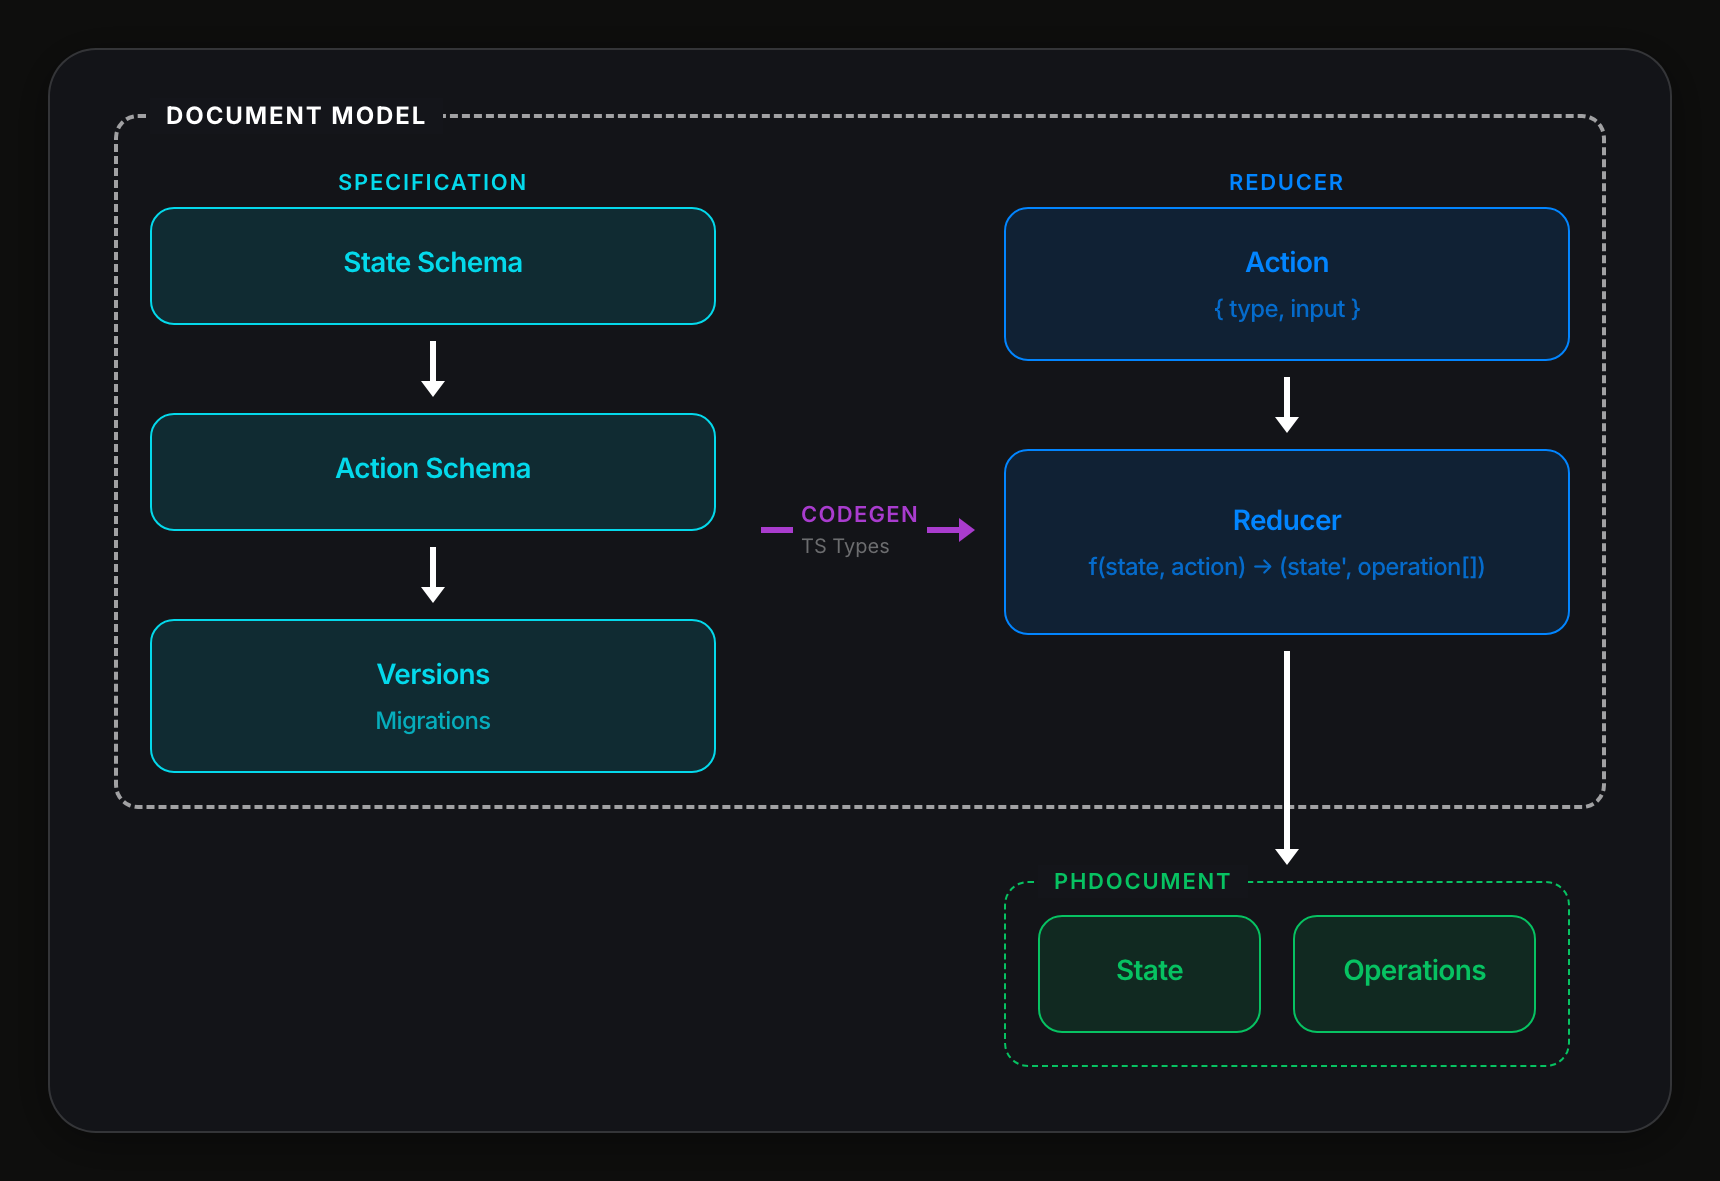
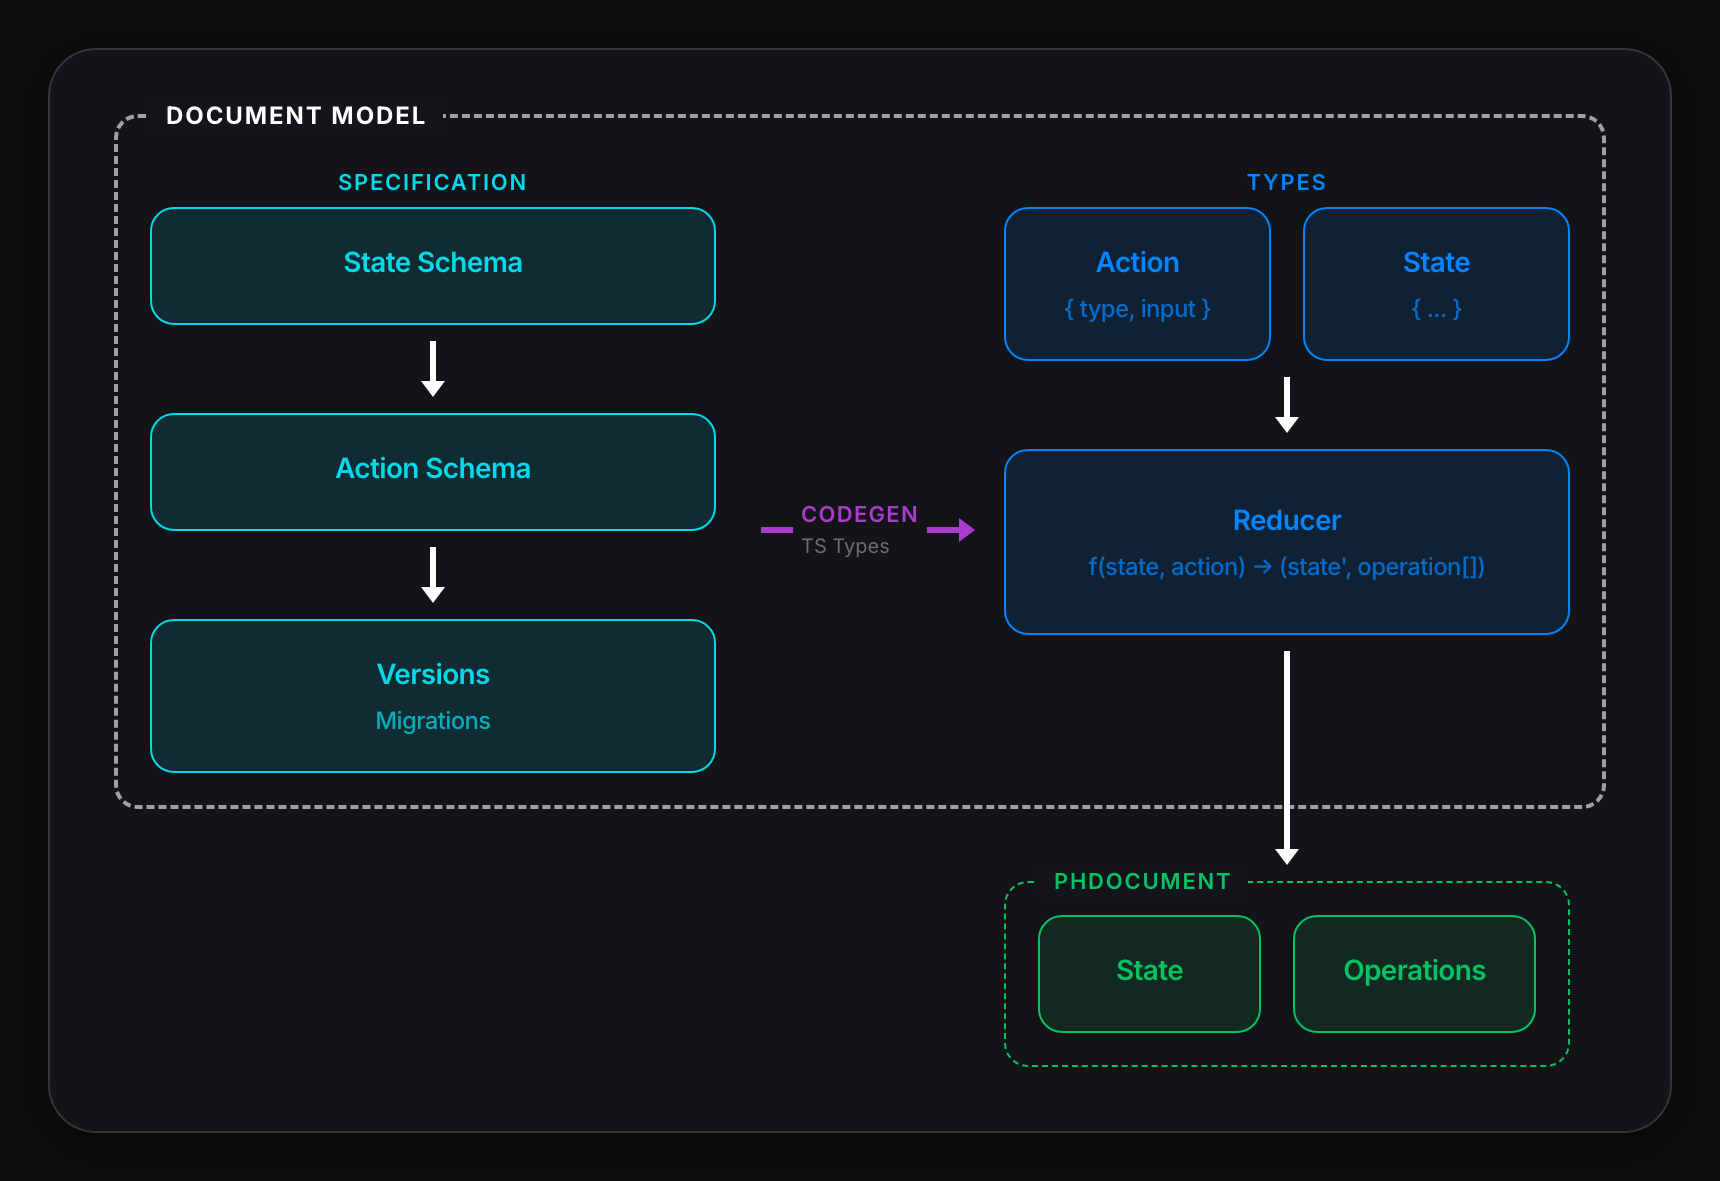
rebuild: document-model right side is Types, with State alongside Action

Changed region(s): [[0.6163, 0.1524, 0.8012, 0.3048], [0.8012, 0.2134, 0.8628, 0.2439]]

diff --git a/diagrams/pages/document-model-architecture.html b/diagrams/pages/document-model-architecture.html
@@ -229,6 +229,16 @@
       padding: 0 var(--space-sm);
     }
 
+    /* The two generated types, side by side */
+    .type-group {
+      display: grid;
+      grid-template-columns: 1fr 1fr;
+      gap: var(--space-md);
+    }
+    .type-group .box {
+      padding: var(--space-md) var(--space-sm);
+    }
+
     .output-group {
       display: grid;
       grid-template-columns: 1fr 1fr;
@@ -248,7 +258,7 @@
           <!-- Column Headers -->
           <div class="col-header spec">Specification</div>
           <div class="col-header codegen"></div>
-          <div class="col-header reducer">Reducer</div>
+          <div class="col-header reducer">Types</div>
 
           <!-- Left Column: Spec -->
           <div class="col-spec">
@@ -284,9 +294,15 @@
 
           <!-- Right Column: Reducer -->
           <div class="col-reducer">
-            <div class="box accent-blue">
-              <div class="box-title">Action</div>
-              <div class="box-detail">{ type, input }</div>
+            <div class="type-group">
+              <div class="box accent-blue">
+                <div class="box-title">Action</div>
+                <div class="box-detail">{ type, input }</div>
+              </div>
+              <div class="box accent-blue">
+                <div class="box-title">State</div>
+                <div class="box-detail">{ ... }</div>
+              </div>
             </div>
             <div class="v-connector"></div>
             <div class="box accent-blue" style="padding: var(--space-lg);">
